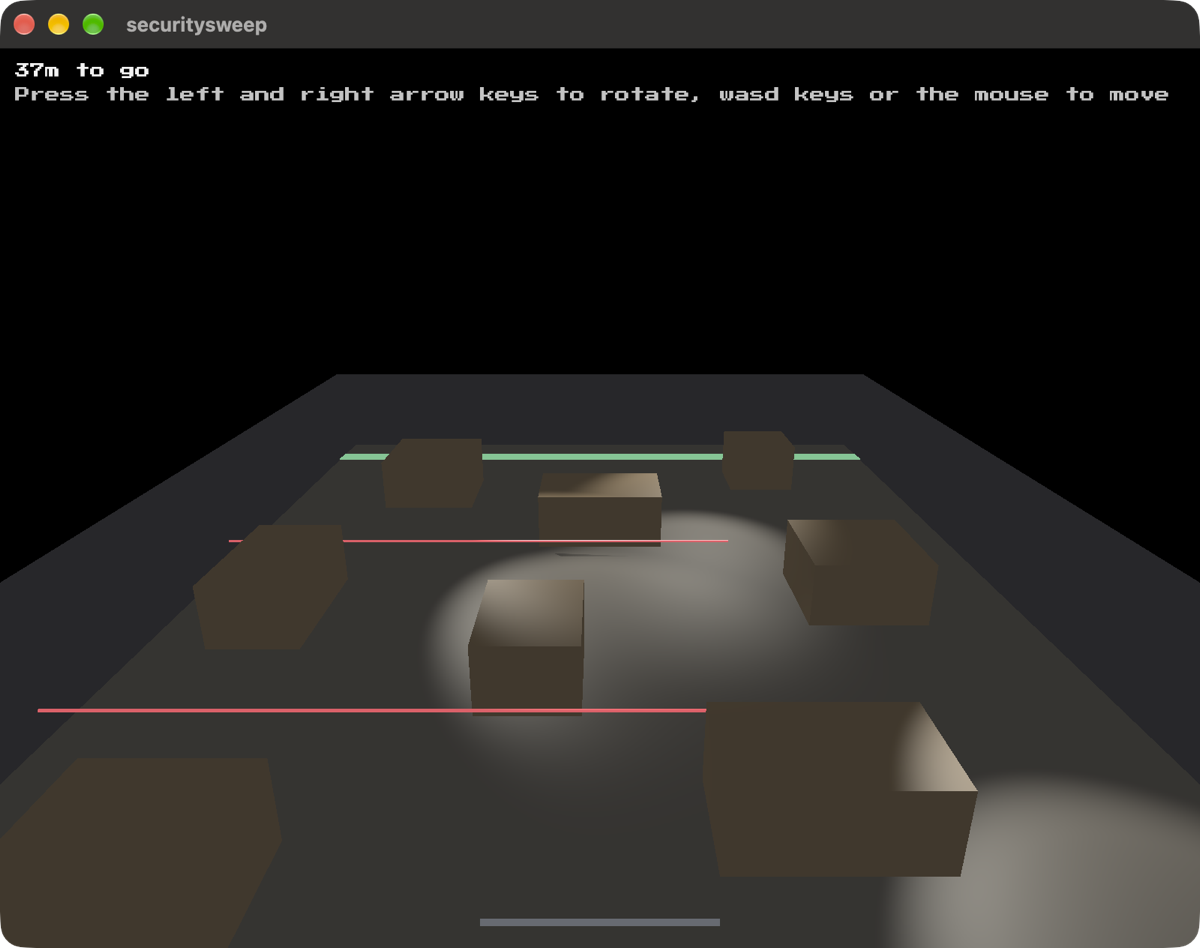
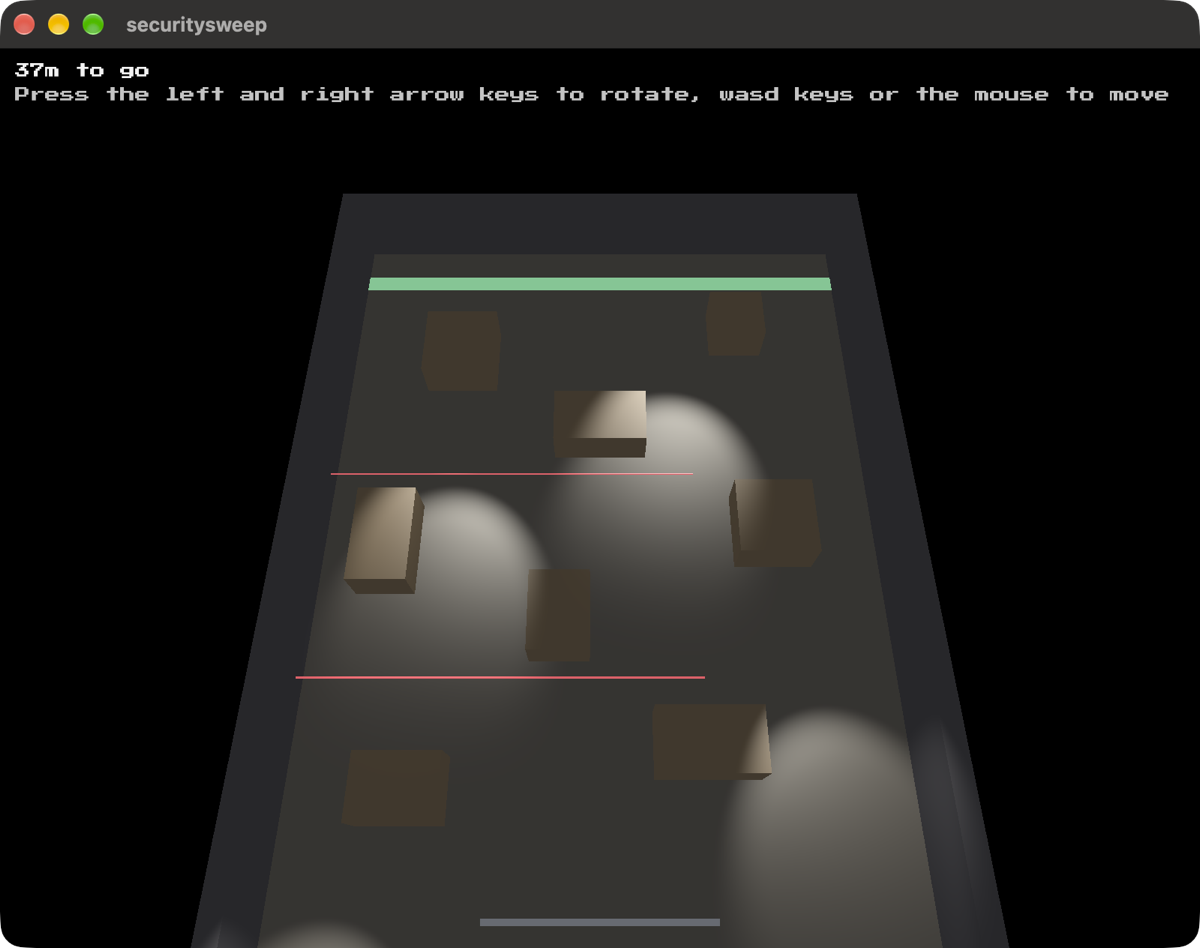
Look at the yard from above for the camera
Takes --screenshot, which puts the camera over the yard. From inside it you see a crate and a beam; what this game is, is the whole yard at once, with the wires strung across it and the light falling in two places.

diff --git a/src/sweep_game.rs b/src/sweep_game.rs
@@ -317,6 +317,16 @@ impl Game for SweepGame {
             scene.push_spot(beam);
         }
 
+        // from above for the camera, per `refresh-screenshots` in the project
+        // above. From inside the yard you see a crate and a beam; what this
+        // game is, is the whole yard at once, with the wires strung across it
+        // and the light falling in two places.
+        if crate::staged() {
+            camera.position = glam::vec3(0.0, yard::DEEP * 0.95, yard::DEEP * 0.42);
+            camera.target = glam::vec3(0.0, 0.0, -yard::DEEP * 0.05);
+            return;
+        }
+
         camera.position = self.you.eye();
         camera.target = camera.position + self.you.facing();
     }

diff --git a/src/main.rs b/src/main.rs
@@ -11,6 +11,12 @@ mod yard;
 use blitzkit::start;
 use sweep_game::SweepGame;
 
+/// Whether this run is only here to be photographed, for `refresh-screenshots`
+/// in the project above.
+pub fn staged() -> bool {
+    std::env::args().any(|arg| arg == "--screenshot")
+}
+
 fn main() {
     start("securitysweep", Box::new(SweepGame::new()));
 }

diff --git a/README.md b/README.md
@@ -2,6 +2,8 @@
 
 An open yard with four spotlights sweeping across it
 
+![The yard from above: crates scattered across it, two red tripwires strung the whole way over, a green line at the far end, and two pools of light where the beams fall](media/screenshot.png)
+
 Walk across. Being lit fills a meter, the dark empties it slower than it fills,
 and full puts you back at the near side. The crates stop the beams and stop you,
 so what looks like shelter is shelter. Nothing chases you: the lights sweep the
